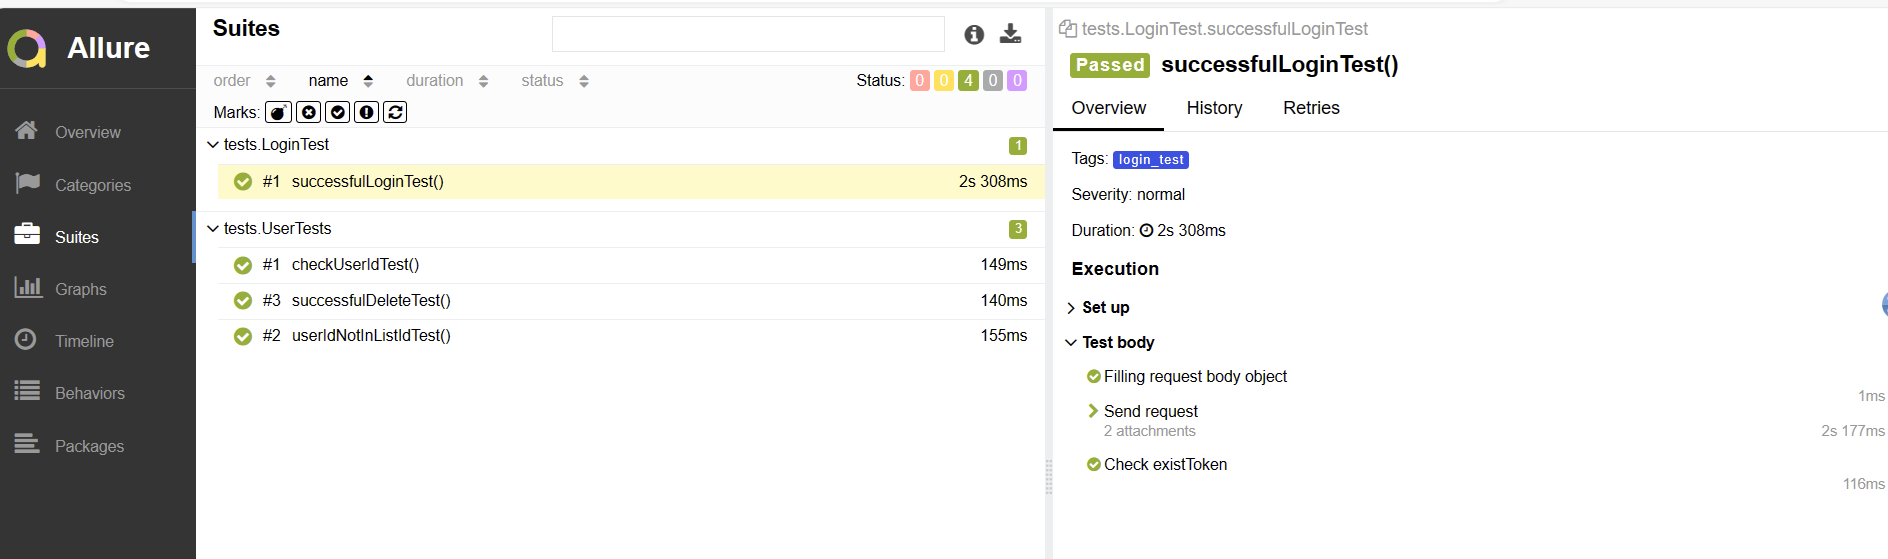
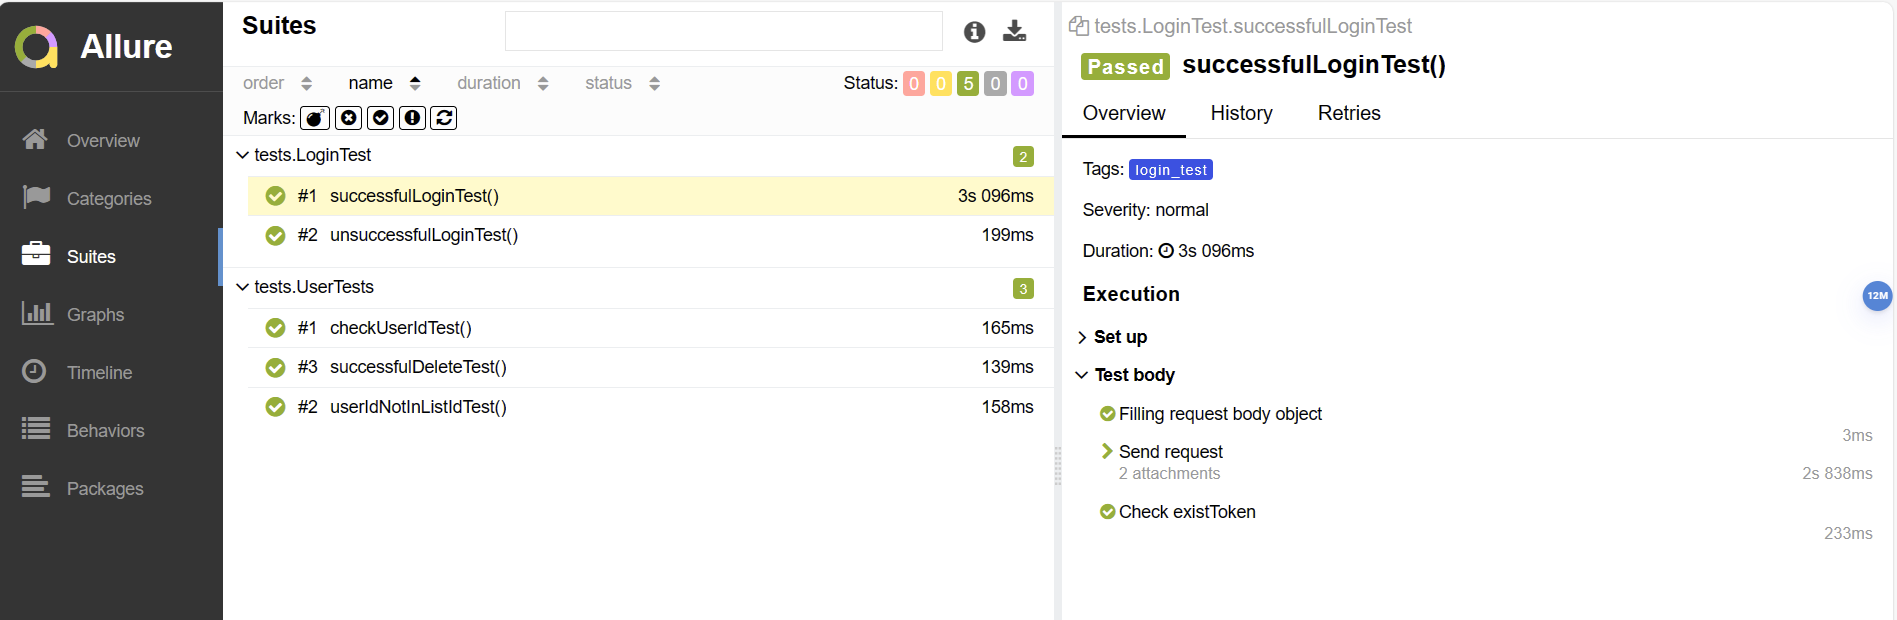
'UpdateReadMe'

diff --git a/Readme.md b/Readme.md
@@ -29,6 +29,7 @@
 * Проверка userId переданного пользователя
 * Проверка статус кода при передаче пользователя отсутствующего в базе
 * Успешная операция логина
+* Неуспешная операция логина с пустым паролем
 * Успешное удаление пользователя
 
 ## Запуск тестов
@@ -73,7 +74,7 @@ clean ${TASK}
 `TREND` - отображает тенденцию выполнения тестов для всех запусков <br/>
 `SUITES` - отображает распределение тестов по сьютам <br/>
 
-<img src="media/screenshots/AllureReport_Overview.png">
+<img src="media/screenshots/AllureReport_API_5cases.png">
 
 #### Развернутый результат прохождения тестов:
 1. Общий список автотестов
